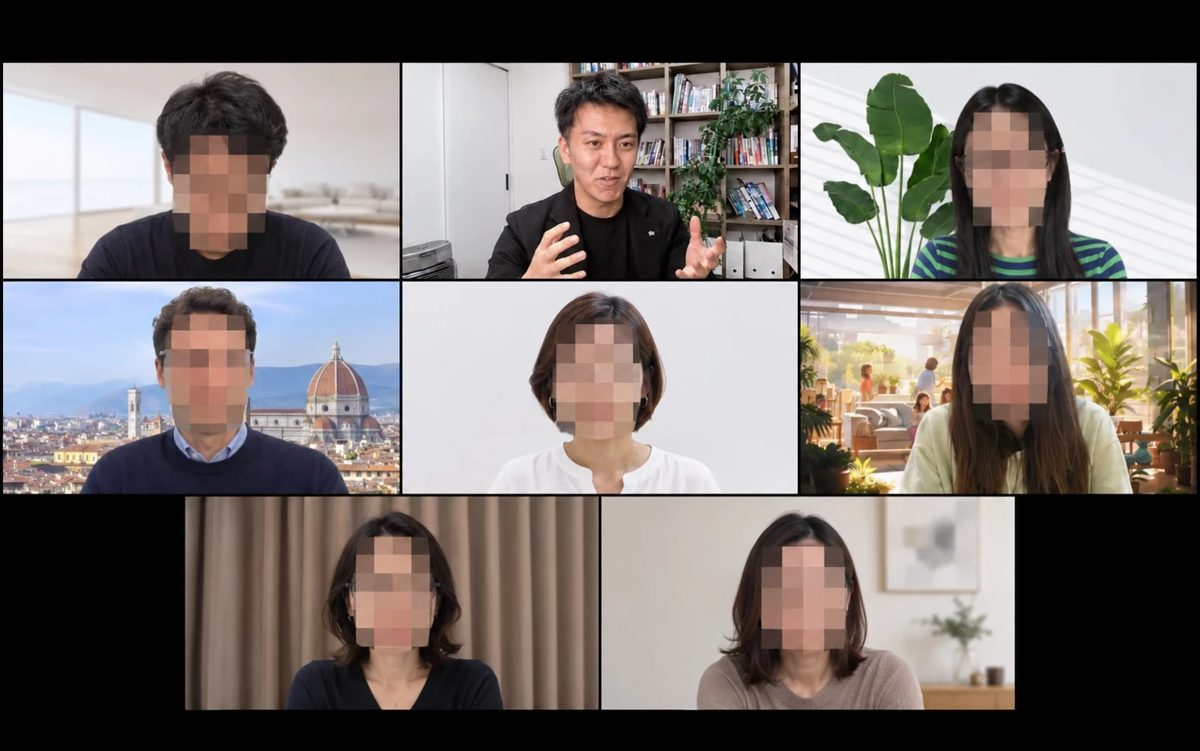
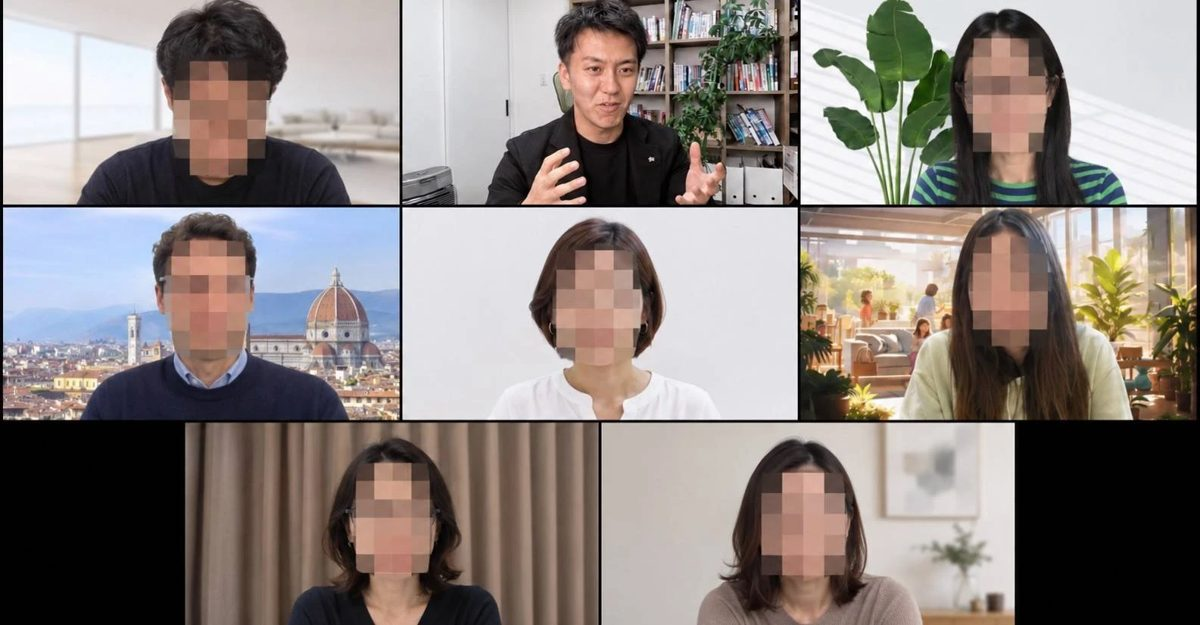
seminar2: replace seminar photos with cropped versions
Claude-Session: https://claude.ai/code/session_01MEe9dy1wyBhZqctxGmCrS6

diff --git a/seminar2/index.html b/seminar2/index.html
@@ -471,11 +471,11 @@
         <!-- セミナーの様子（写真2枚） -->
         <div class="grid grid-cols-1 sm:grid-cols-2 gap-4 sm:gap-5">
           <figure class="space-y-2">
-            <img src="zoom-gallery.jpg" alt="Zoomでお互いの顔を見ながら参加している講座の様子" width="1200" height="751" loading="lazy" class="w-full h-auto rounded-2xl border border-[#008080]/20 shadow-sm">
+            <img src="zoom-gallery.jpg" alt="Zoomでお互いの顔を見ながら参加している講座の様子" width="1200" height="625" loading="lazy" class="w-full h-auto rounded-2xl border border-[#008080]/20 shadow-sm">
             <figcaption class="text-xs sm:text-sm text-[#3D4141] text-center leading-relaxed">Zoomで、お互いの顔を見ながら<br />安心して話せる場です</figcaption>
           </figure>
           <figure class="space-y-2">
-            <img src="zoom-lecture.jpg" alt="ひら先生がスライドを使ってお話ししている講座の様子" width="1200" height="751" loading="lazy" class="w-full h-auto rounded-2xl border border-[#008080]/20 shadow-sm">
+            <img src="zoom-lecture.jpg" alt="ひら先生がスライドを使ってお話ししている講座の様子" width="1200" height="670" loading="lazy" class="w-full h-auto rounded-2xl border border-[#008080]/20 shadow-sm">
             <figcaption class="text-xs sm:text-sm text-[#3D4141] text-center leading-relaxed">スライドを使って、<br />わかりやすくお話しします</figcaption>
           </figure>
         </div>
